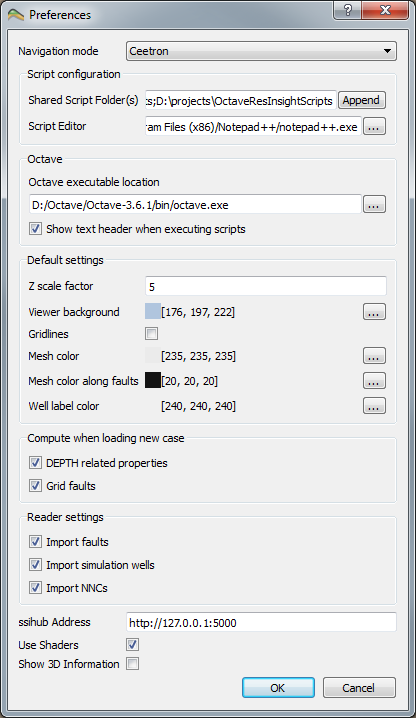
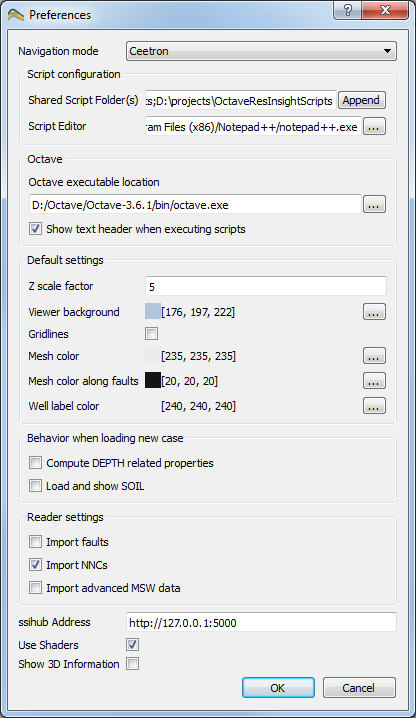
Updated preferences

diff --git a/docs/Preferences.md b/docs/Preferences.md
@@ -17,7 +17,9 @@ User defined preferences are store for each user of ResInsight.
 - **Script configuration** Defines where scripts are stored and what text editor to use for editing scripts
 - **Octave** Defines the binary file of octave. Usually without path on Linux, and including path on Windows.
 -  **Default settings** The user can define a set of visual settings that will be used when creating new views.
--  **Compute when loading new case** If not present, compute DEPTH, DX, DY, DZ, TOP, BOTTOM when loading new case
+-  **Behaviour when loading new case**
+    - **Compute when loading new case** If not present, compute DEPTH, DX, DY, DZ, TOP, BOTTOM when loading new case
+    - **Load and show SOIL** Control if SOIL is loaded and applied to grid
 -  **Reader settings** Defines entities to import in addition to grid and grid properties.
 -  **ssihub Address** Statoil internal web service used to import well paths.
 -  **Use shaders** In some settings hardware accelerated methods are not possible to use(ie. remote desktop on Windows). This setting can disable shaders to be able to test behaviour without shaders.
